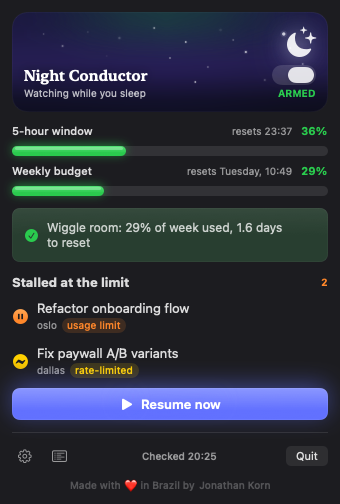
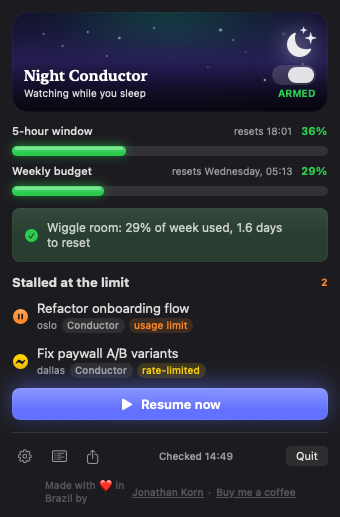
fix(design): legible header on the daytime sky + underlined About links
QA of the live daytime popover: white wordmark/subtitle washed out on the
bright day sky (the text was tuned for the dark night sky).
- Header scrim: a top+bottom dark gradient over the sky so the moon,
  wordmark, and subtitle stay legible at any hour; the middle keeps the
  sky's color. Subtitle gets a shadow + a touch more opacity.
- About links are now underlined so they read as links, and a 'Buy me a
  coffee' link sits next to the name.
- FUNDING.yml gains buy_me_a_coffee; README + landing page link it too.

21 Swift + 38 Python tests pass; verified day (14:00) and night (23:00)
renders are both legible.

diff --git a/NightConductor/Sources/NightConductor/MenuView.swift b/NightConductor/Sources/NightConductor/MenuView.swift
@@ -1,9 +1,9 @@
 import ServiceManagement
 import SwiftUI
 
-// Confirm this is right — it ships inside the app's About line.
 enum AboutLinks {
     static let linkedIn = URL(string: "https://www.linkedin.com/in/jkkorn")!
+    static let buyMeACoffee = URL(string: "https://buymeacoffee.com/jkkorn")!
 }
 
 /// Design tokens — one 4pt spacing scale and one card surface, so spacing
@@ -70,6 +70,13 @@ struct MenuView: View {
     private var header: some View {
         ZStack(alignment: .topTrailing) {
             NightSkyView(armed: state.armed)
+            // Scrim: darkens the top (moon/toggle) and bottom (wordmark) so
+            // white content stays legible even on the bright daytime sky,
+            // while the middle keeps the sky's color.
+            LinearGradient(
+                colors: [.black.opacity(0.30), .black.opacity(0.0), .black.opacity(0.50)],
+                startPoint: .top, endPoint: .bottom
+            )
             GlowingMoon(armed: state.armed)
                 .padding(Design.l)
             HStack(alignment: .bottom) {
@@ -80,7 +87,8 @@ struct MenuView: View {
                         .shadow(color: .black.opacity(0.35), radius: 6, y: 1)
                     Text(subtitle)
                         .font(.caption)
-                        .foregroundStyle(.white.opacity(0.72))
+                        .foregroundStyle(.white.opacity(0.85))
+                        .shadow(color: .black.opacity(0.3), radius: 4, y: 1)
                         .contentTransition(.opacity)
                 }
                 Spacer()
@@ -316,7 +324,9 @@ extension MenuView {
         HStack(spacing: 4) {
             Spacer()
             Text("Made with ❤ in Brazil by")
-            Link("Jonathan Korn", destination: AboutLinks.linkedIn)
+            Link("Jonathan Korn", destination: AboutLinks.linkedIn).underline()
+            Text("·").foregroundStyle(.tertiary)
+            Link("Buy me a coffee", destination: AboutLinks.buyMeACoffee).underline()
             Spacer()
         }
         .font(.caption2)

diff --git a/docs/index.html b/docs/index.html
@@ -85,6 +85,7 @@ cd Night-Conductor/NightConductor
 
   <footer>
     Made with ❤ in Brazil by <a href="https://www.linkedin.com/in/jkkorn">Jonathan Korn</a> ·
+    <a href="https://buymeacoffee.com/jkkorn">Buy me a coffee</a> ·
     Open source (MIT) · Not affiliated with Conductor or Anthropic
   </footer>
 </div>

diff --git a/README.md b/README.md
@@ -161,7 +161,8 @@ section, or increase the rehide interval.
 
 Made with ❤ in Brazil by [Jonathan Korn](https://www.linkedin.com/in/jkkorn).
 Built because I love [Conductor](https://conductor.build) and kept hitting my
-limits at midnight.
+limits at midnight. If it saved your night,
+[buy me a coffee](https://buymeacoffee.com/jkkorn) ☕.
 
 ## License
 
